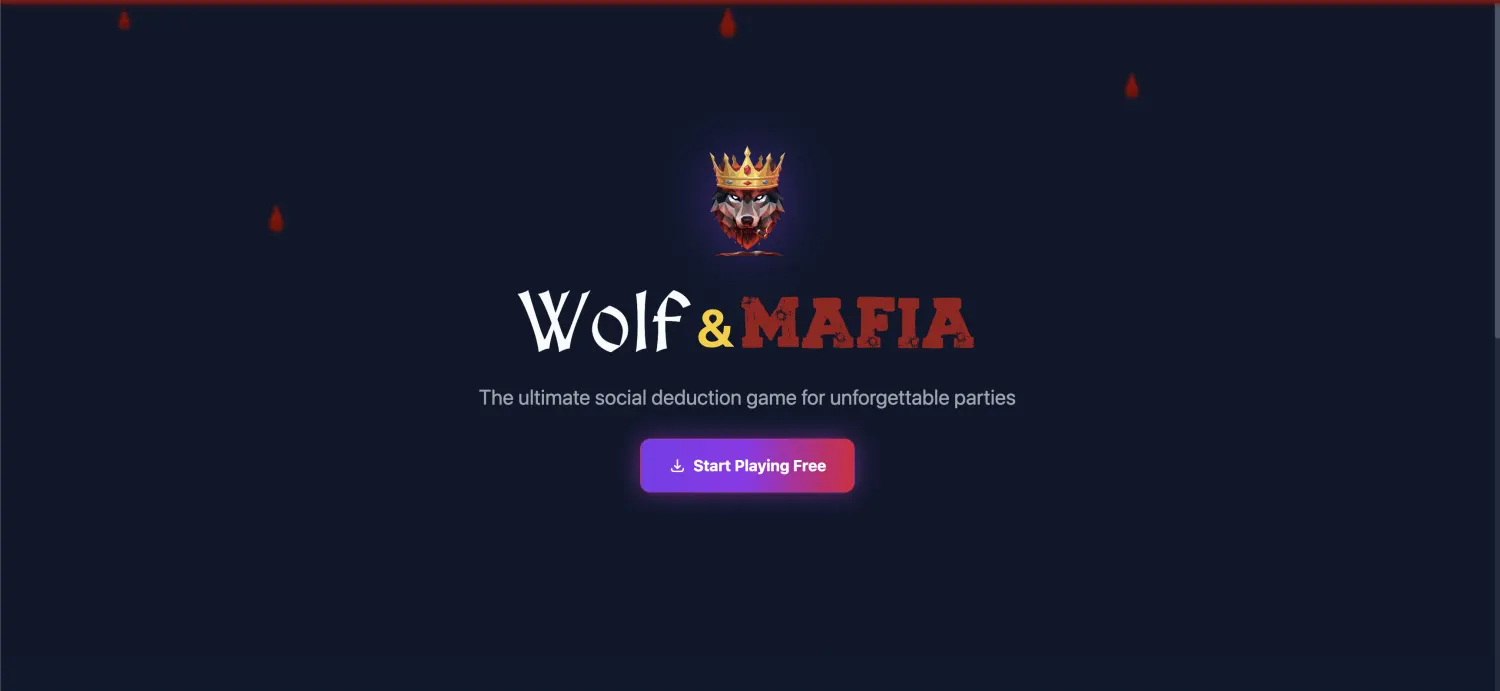
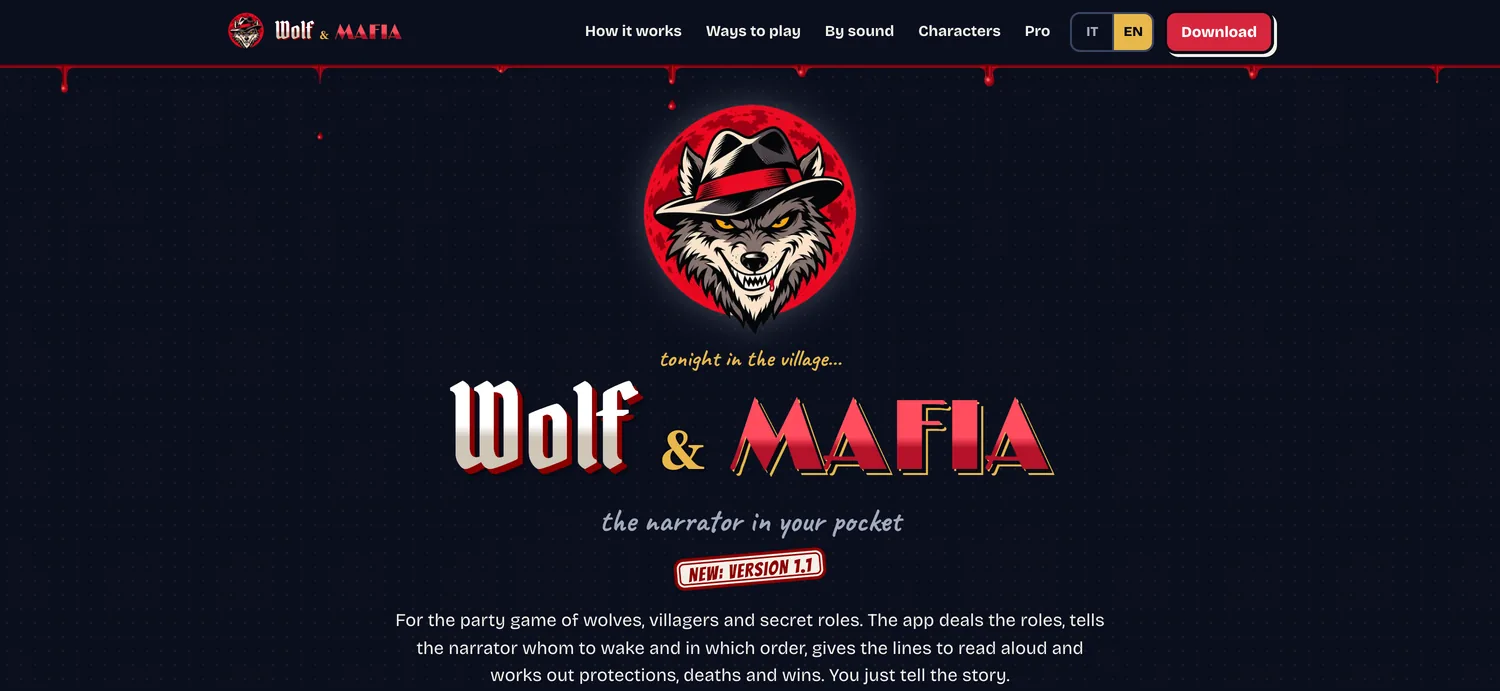
Wolf & Mafia: phones synced by sound over a binary protocol, new landing screenshot, 35 roles

diff --git a/data/projects.ts b/data/projects.ts
@@ -127,14 +127,16 @@ export const featured: Project[] = [
     kicker: "iOS & Android · Party game",
     status: { label: "On the stores", tone: "live" },
     paragraphs: [
-      "A **100% offline** social deduction game (Mafia, Werewolf, Lupus in Tabula) built from scratch, with **36 unique roles** and a fully guided narrator.",
-      "The whole game runs on a **deterministic, seed-based state generator**: no server, no connection. Players join by **scanning a QR code**, with rollback and automatic polling so a group can play anywhere.",
+      "**The narrator in your pocket** for the party game of wolves, villagers and secret roles (Mafia, Werewolf, Lupus in Tabula), built from scratch: **35 characters**, a guided night step by step, and protections, deaths and wins worked out by the app. **100% offline**.",
+      "**Phones talk to each other through sound, with no network.** I designed a compact binary protocol (a hash of the game's identity, idempotent sequence numbers, bit masks, CRC8) that travels on a **near-ultrasonic audio modem** (ggwave): at dawn the narrator's phone updates every player's phone with no internet, Wi-Fi or Bluetooth. The microphone is on only while it is needed, within iOS's rules.",
+      "Underneath, a **deterministic, seed-based game state**: no server at all. Players join by **scanning a QR code**, or pass a single phone around the table.",
     ],
     figures: [
-      { value: "36", label: "unique roles" },
+      { value: "By sound", label: "phone-to-phone updates, no network" },
+      { value: "35", label: "characters" },
       { value: "0", label: "servers needed" },
     ],
-    tags: ["iOS", "Android", "Offline multiplayer", "QR connect", "Game dev"],
+    tags: ["iOS", "Android", "Audio modem (ggwave)", "Binary protocol", "Offline multiplayer", "QR connect"],
     links: {
       live: "https://wolfmafia.app/",
       appStore: "https://apps.apple.com/us/app/wolf-mafia/id6756895478",

diff --git a/resume/resume_it.tex b/resume/resume_it.tex
@@ -228,8 +228,9 @@
 
   \vspace{0.2cm}
 
-  \projectitem{Wolf \& Mafia}{Completato}{Gioco offline di Lupus in Tabula per Android e iOS}{https://wolfmafia.app/}{null}
-    \item \textbf{36} ruoli e narratore guidato; stato deterministico, 0 server, accesso via QR
+  \projectitem{Wolf \& Mafia}{Live}{Gioco offline di Lupus in Tabula per Android e iOS}{https://wolfmafia.app/}{null}
+    \item Sync tra telefoni via audio quasi ultrasonico (ggwave), senza rete: mio protocollo binario con hash partita, sequenze idempotenti, bitmask, \textbf{CRC8}
+    \item \textbf{35} ruoli e narratore guidato; stato deterministico, 0 server, accesso via QR
   \end{itemize}
 
 

diff --git a/resume/resume_eng.tex b/resume/resume_eng.tex
@@ -227,8 +227,9 @@
 
   \vspace{0.2cm}
 
-  \projectitem{Wolf \& Mafia}{Completed}{Offline Mafia \& Werewolf game for Android and iOS}{https://wolfmafia.app/}{null}
-    \item \textbf{36} roles and a guided narrator; deterministic state, no servers, QR join
+  \projectitem{Wolf \& Mafia}{Live}{Offline Mafia \& Werewolf game for Android and iOS}{https://wolfmafia.app/}{null}
+    \item Phones sync by near-ultrasonic sound (ggwave), no network: my binary protocol with game hash, idempotent sequence numbers, bit masks, \textbf{CRC8}
+    \item \textbf{35} roles and a guided narrator; deterministic state, no servers, QR join
   \end{itemize}
 
 
